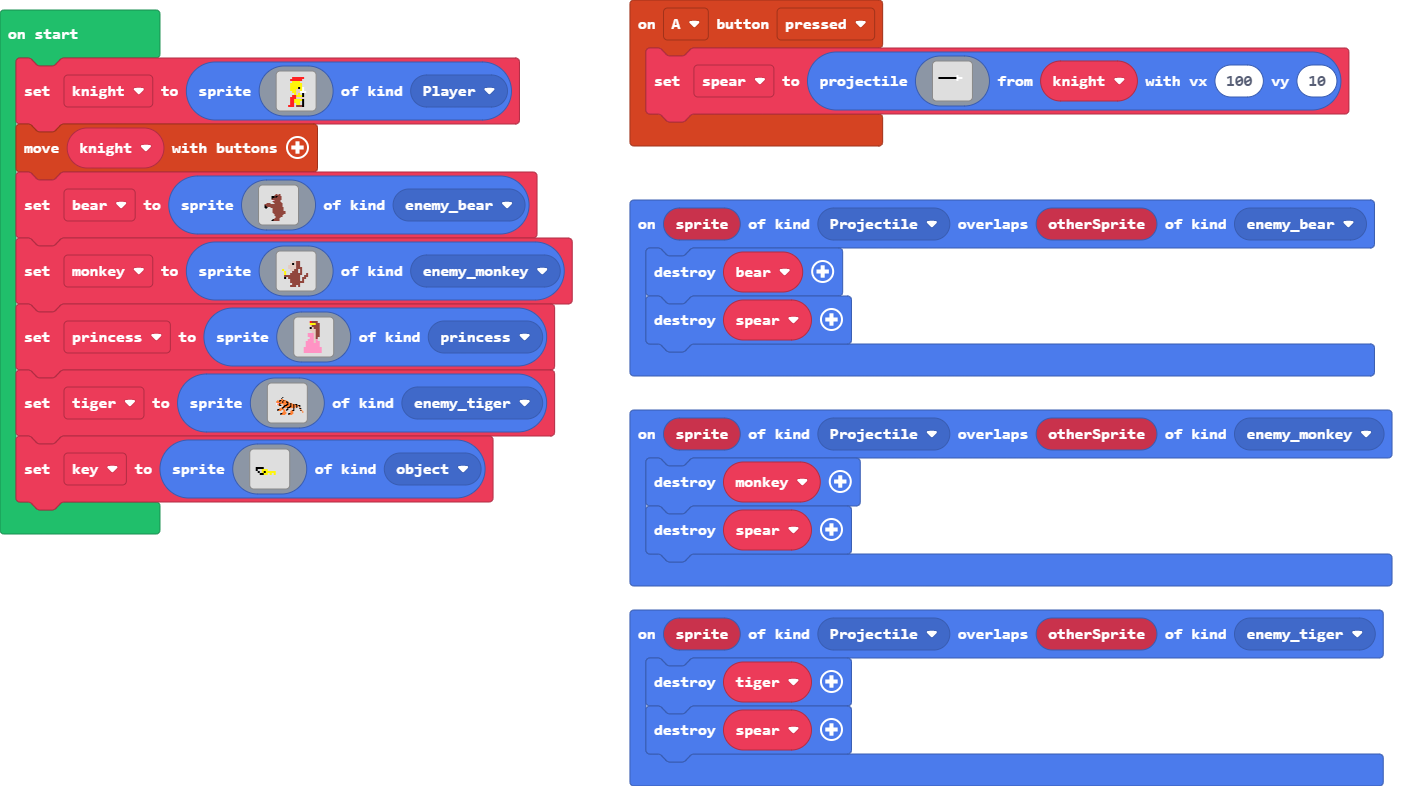
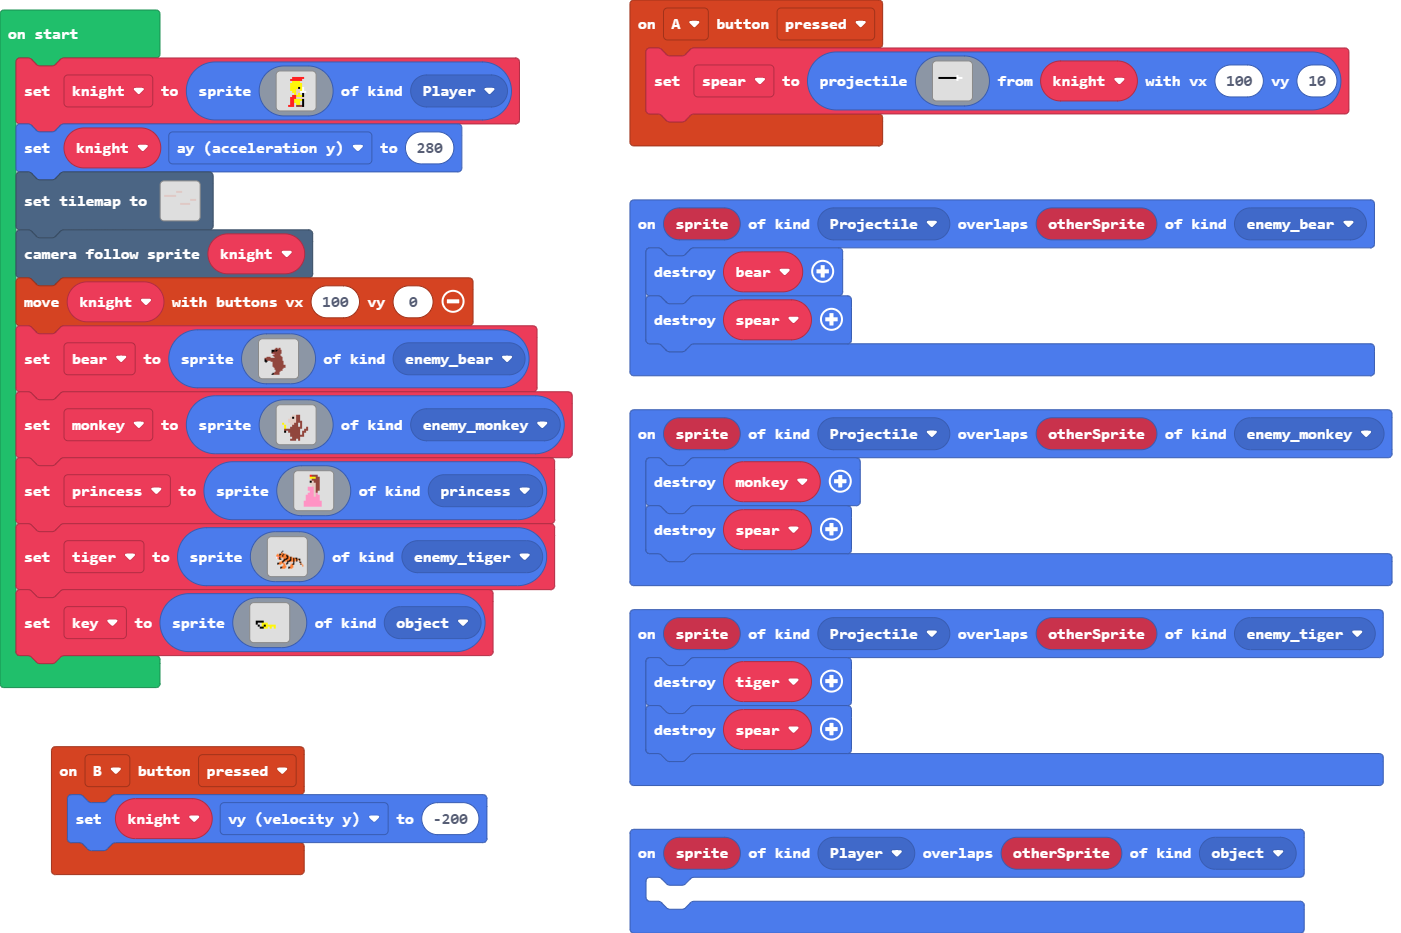
Update main.blocks, main.ts

diff --git a/main.ts b/main.ts
@@ -6,6 +6,9 @@ namespace SpriteKind {
     export const object = SpriteKind.create()
     export const enemy_tiger = SpriteKind.create()
 }
+controller.B.onEvent(ControllerButtonEvent.Pressed, function () {
+    knight.vy = -200
+})
 controller.A.onEvent(ControllerButtonEvent.Pressed, function () {
     spear = sprites.createProjectileFromSprite(img`
         . . . . . . . . . . . . . . . . 
@@ -29,6 +32,9 @@ controller.A.onEvent(ControllerButtonEvent.Pressed, function () {
 sprites.onOverlap(SpriteKind.Projectile, SpriteKind.enemy_bear, function (sprite, otherSprite) {
     bear.destroy()
     spear.destroy()
+})
+sprites.onOverlap(SpriteKind.Player, SpriteKind.object, function (sprite, otherSprite) {
+	
 })
 sprites.onOverlap(SpriteKind.Projectile, SpriteKind.enemy_tiger, function (sprite, otherSprite) {
     tiger.destroy()
@@ -61,7 +67,27 @@ knight = sprites.create(img`
     . . . . . 2 2 . 5 5 . f . . . . 
     . . . . 2 2 2 . e e e f . . . . 
     `, SpriteKind.Player)
-controller.moveSprite(knight)
+knight.ay = 280
+tiles.setTilemap(tiles.createTilemap(hex`1000100000000000000000000000000000000000000000000000000000000000000000000000000000000000000000000000000000000000000001010100000000000000000000000000000000000000000000000101010101010000000000000000000000000000000000000000000000000000000000000000000000000000000101010000000000000000000000000000000000000000000000000101010101000000000000000000000000000000000000000000000000000000000000000000000000000000000000000000000000000000000000000000000000000000000000000000000000000000000000000000000000000000000000000000000000000000`, img`
+    . . . . . . . . . . . . . . . . 
+    . . . . . . . . . . . . . . . . 
+    . . . . . . . . . . . . . . . . 
+    . . . . . . 2 2 2 . . . . . . . 
+    . . . . . . . . . . . . . . . . 
+    2 2 2 2 2 2 . . . . . . . . . . 
+    . . . . . . . . . . . . . . . . 
+    . . . . . . . . . . . . . 2 2 2 
+    . . . . . . . . . . . . . . . . 
+    . . . . . . . . 2 2 2 2 2 . . . 
+    . . . . . . . . . . . . . . . . 
+    . . . . . . . . . . . . . . . . 
+    . . . . . . . . . . . . . . . . 
+    . . . . . . . . . . . . . . . . 
+    . . . . . . . . . . . . . . . . 
+    . . . . . . . . . . . . . . . . 
+    `, [myTiles.transparency16,sprites.dungeon.floorLight2], TileScale.Sixteen))
+scene.cameraFollowSprite(knight)
+controller.moveSprite(knight, 100, 0)
 bear = sprites.create(img`
     ................................
     ................................
